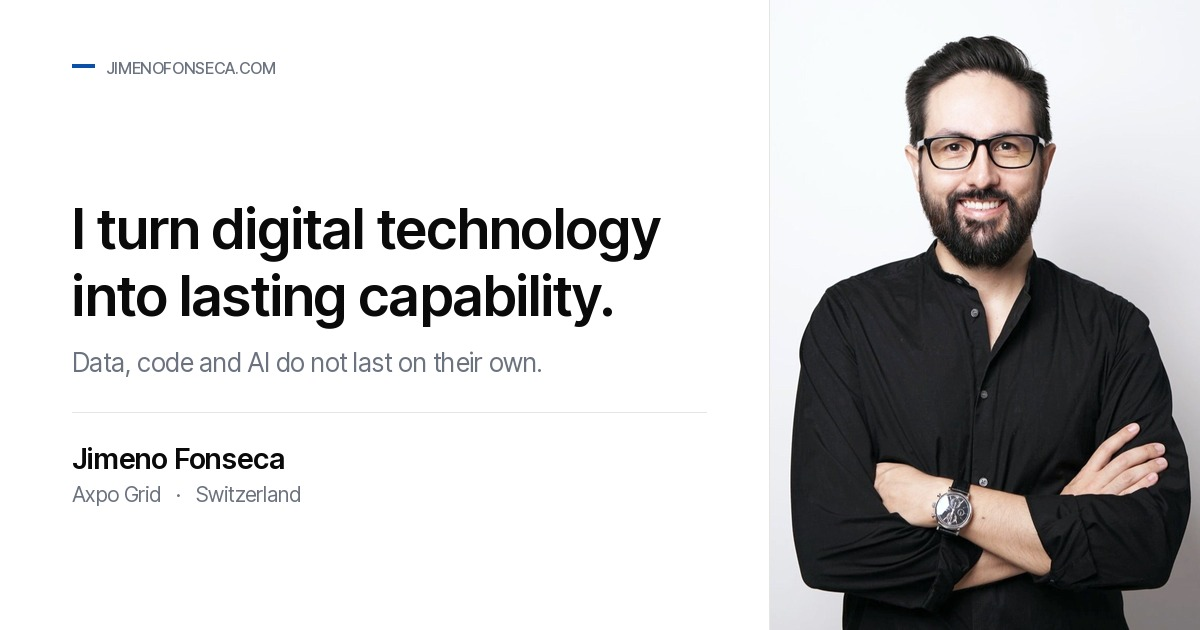
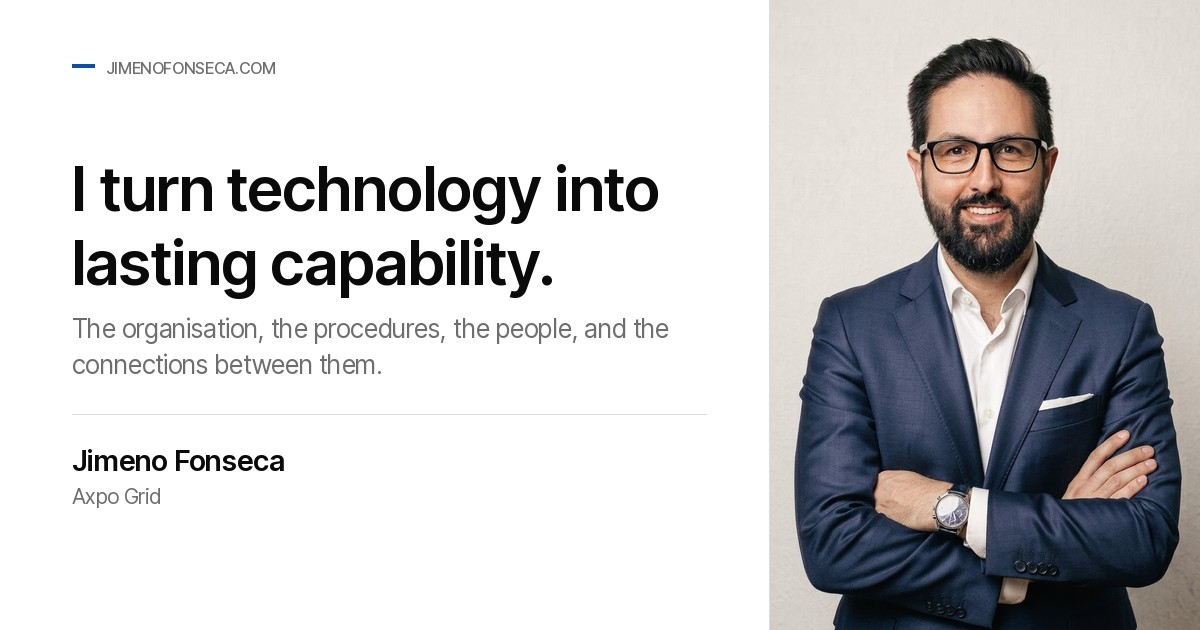
Swap in the new portrait; regenerate the share card
assets/Portrait_New.JPG (896x1200, 135 KB) copied to assets/portrait.jpg
byte-for-byte and the upload removed. No re-encode: at q=82 Pillow produced
134 KB against the source's 135 KB, so the file is already well compressed
and re-encoding would only add generational loss for nothing.

The image is 0.7467 against the CSS box's exact 3:4, so object-fit: cover
shaves about 5px off the bottom — invisible, and keeping the native pixels
beats resampling to force the ratio. width/height corrected 901x1202 ->
896x1200, and the src gained ?v=2: the URL is otherwise unchanged, so Pages'
10-minute max-age would have kept serving the old photo to anyone who had
just visited.

appendix-og-image.py crops the portrait into assets/og-image.jpg, so the
card was stale the moment the portrait changed. Regenerated — and while
there, "Zürich, CH" came out of its META line. The location was removed from
the footer, the JSON-LD homeLocation and og:image:alt on request; the share
card is the most public surface of the lot, so leaving it there would have
undone that decision in the one place it matters most.

Not touched, because they are a design call rather than a correction: the
card's HEAD still reads "I turn technology into lasting capability." — the
slogan retired from the page — and SUB carries a strapline that appears
nowhere on the site. Flagged for a decision.

Claude-Session: https://claude.ai/code/session_01SpdbfRoFkKP2eYAAh2r86V

diff --git a/de/index.html b/de/index.html
@@ -139,8 +139,8 @@
           </div>
         </div>
         <figure class="hero-figure">
-          <img src="/assets/portrait.jpg" alt="Jimeno Fonseca, portrait."
-               width="901" height="1202" loading="eager" fetchpriority="high" decoding="async" />
+          <img src="/assets/portrait.jpg?v=2" alt="Jimeno Fonseca, portrait."
+               width="896" height="1200" loading="eager" fetchpriority="high" decoding="async" />
         </figure>
       </section>
 

diff --git a/index.html b/index.html
@@ -139,8 +139,8 @@
           </div>
         </div>
         <figure class="hero-figure">
-          <img src="/assets/portrait.jpg" alt="Jimeno Fonseca, portrait."
-               width="901" height="1202" loading="eager" fetchpriority="high" decoding="async" />
+          <img src="/assets/portrait.jpg?v=2" alt="Jimeno Fonseca, portrait."
+               width="896" height="1200" loading="eager" fetchpriority="high" decoding="async" />
         </figure>
       </section>
 

diff --git a/appendix-og-image.py b/appendix-og-image.py
@@ -13,7 +13,10 @@ from PIL import Image, ImageDraw, ImageFont
 HEAD = "I turn technology into lasting capability."
 SUB  = "The organisation, the procedures, the people, and the connections between them."
 NAME = "Jimeno Fonseca"
-META = "Axpo Grid   ·   Zürich, CH"  # no job title: OG images cache hard
+META = "Axpo Grid"  # no job title (OG images cache hard) and no city:
+                    # the location was removed from the footer, the JSON-LD
+                    # homeLocation and og:image:alt, so it must not survive
+                    # here — the share card is the most public surface of all.
 
 def inter_tight_ttfs():
     """Fetch Inter Tight from npm and convert woff2 -> ttf for Pillow."""
